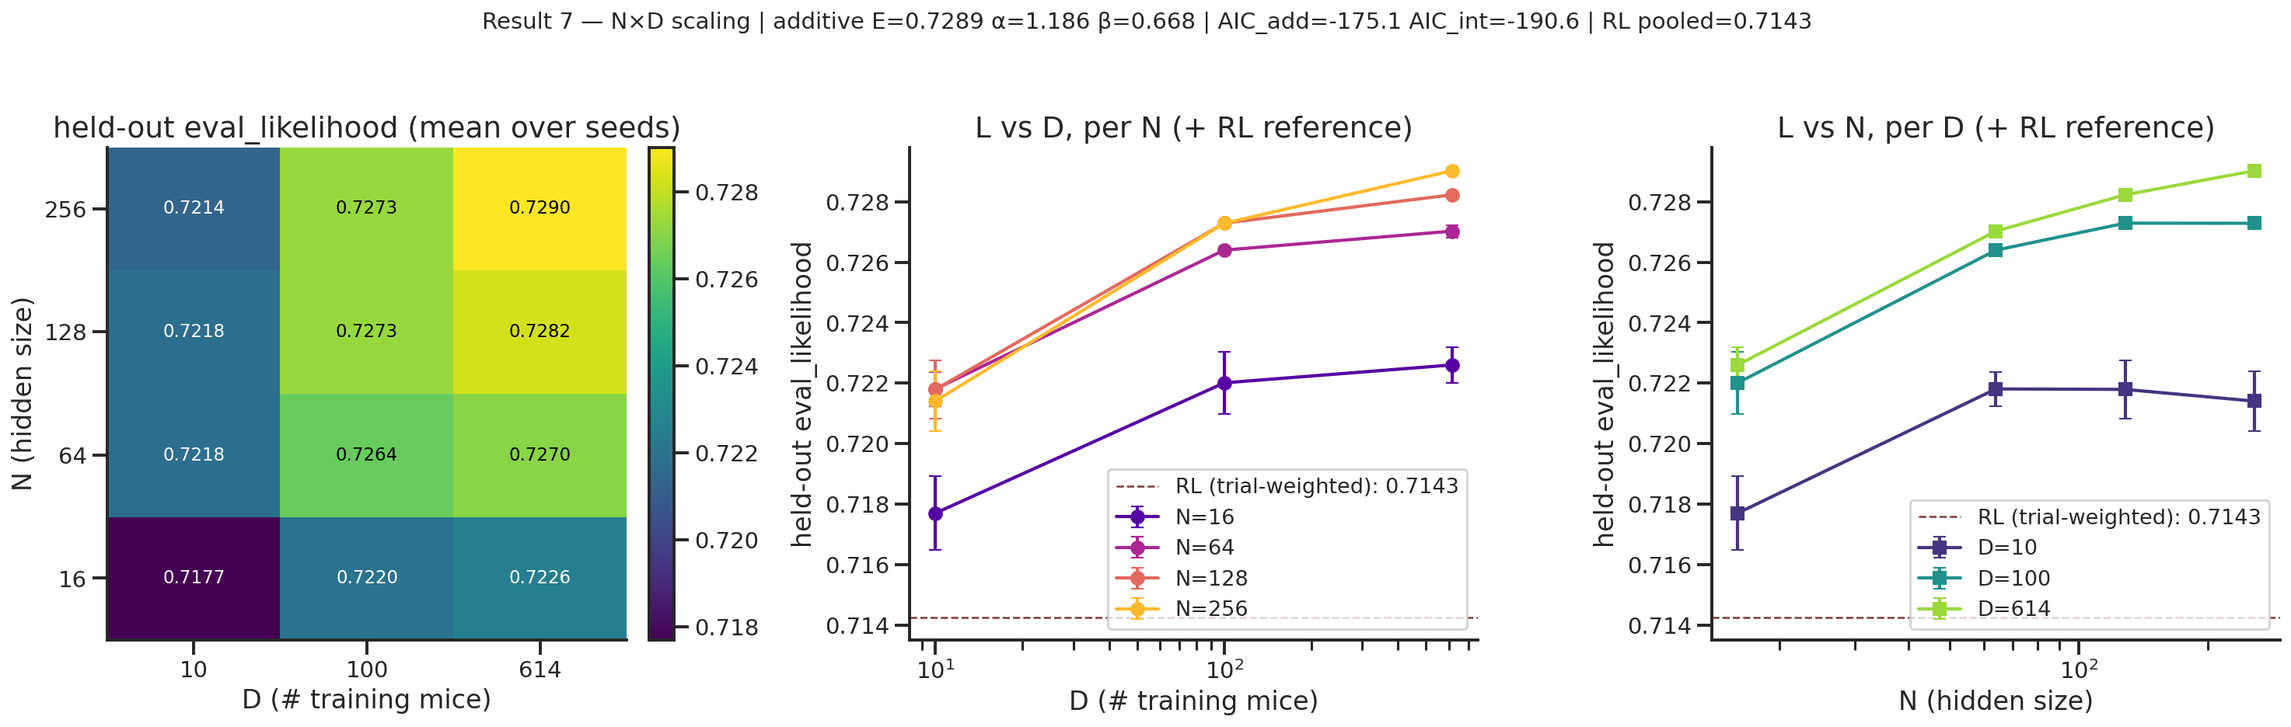
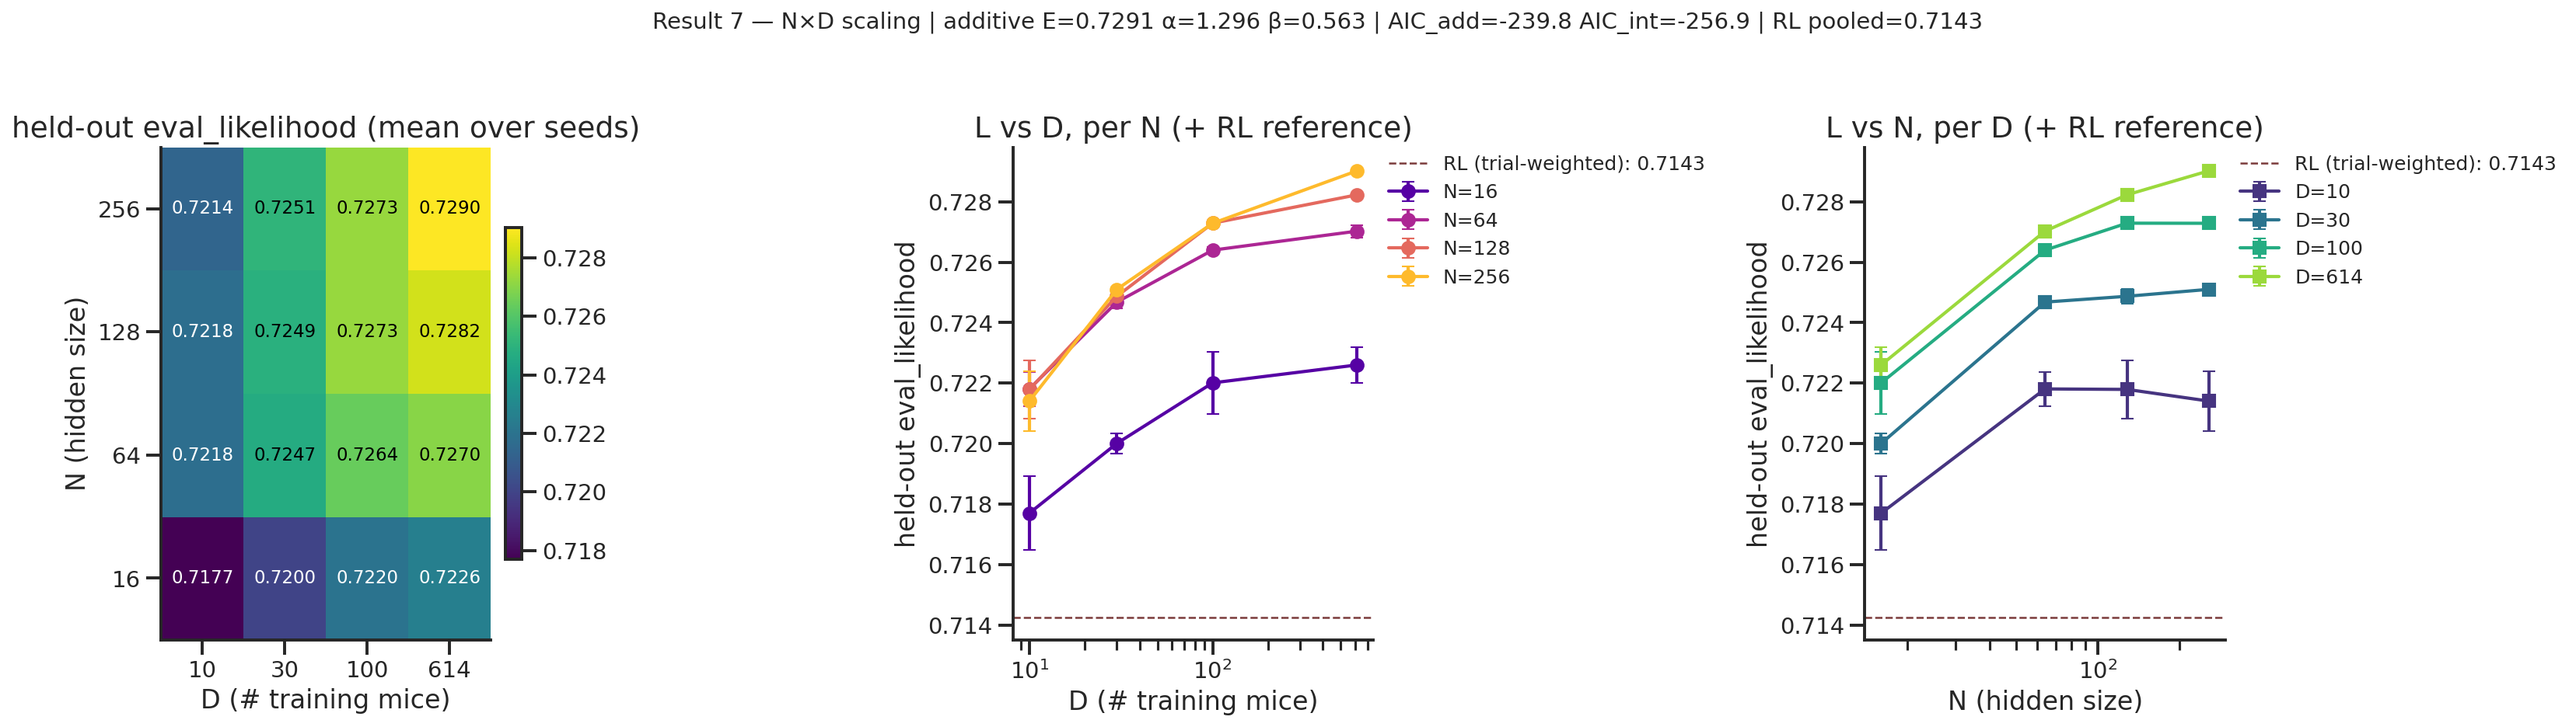
docs(data-scaling): refresh nxd Result 7 with finished D=30 cell
All 9 D=30 grid runs (nxd-grid@20260624-141106 on g6e) finished. Re-run
nxd_scaling.py + rl_baseline.py + update_final_report_nxd.py to fill
the H=256/D=30 cell (was nan) with 0.7251.

Refit on the full 4x4 grid (was 4x3 + 3 cells): E=0.729, alpha=1.30
(N axis), beta=0.56 (D axis). Interaction-term log-log p=0.311 — treat
as descriptive given grid size relative to fit parameters.

Result 7 verdict now references the RL trial-weighted pooled 0.7143
band (dashed line on slice panels in fig_nxd_scaling.png).

diff --git a/studies/data-scaling-law/analysis/nxd_scaling_verdict.md b/studies/data-scaling-law/analysis/nxd_scaling_verdict.md
@@ -1,55 +1,56 @@
 # N x D joint scaling - verdict
 
-> Independently replicated: two agents ran this scan separately and obtained identical grid values and additive-fit parameters (E=0.729, alpha=1.19, beta=0.67) -- this merged analysis combines both (nonlinear AIC test + the log-log regression p-value below).
+> Independently replicated: two agents ran this scan separately and obtained identical grid values and additive-fit parameters (E=0.729, alpha=1.19, beta=0.67) before the D=30 gap-fill. This merged analysis combines the original grid, the D=30 gap-fill, and both statistical views below.
 
-Grid: N (hidden_size) in [16, 64, 128, 256] x D (#training mice) in [10, 100, 614]; 3 seeds per cell.
+Grid: N (hidden_size) in [16, 64, 128, 256] x D (#training mice) in [10, 30, 100, 614]; 3 seeds per cell.
 Metric: aggregate `heldout/final/eval_likelihood` over the fixed held-out mouse set (~149 mice).
 H128 column re-used from `v2-sc-active@20260622-144622` (predates per-subject logging, so aggregate scalar used everywhere for parity).
 
 ## Per-N gain from scaling D
 
-| N | L(D=10) | L(D=100) | L(D=614) | delta (D100->D614) | frac of D-gain by D=100 |
-|---|---|---|---|---|---|
-| 16 | 0.7177 | 0.7220 | 0.7226 | +0.0006 | 88% |
-| 64 | 0.7218 | 0.7264 | 0.7270 | +0.0006 | 88% |
-| 128 | 0.7218 | 0.7273 | 0.7282 | +0.0009 | 85% |
-| 256 | 0.7214 | 0.7273 | 0.7290 | +0.0017 | 77% |
+| N | L(D=10) | L(D=30) | L(D=100) | L(D=614) | delta (D100->D614) | frac of D-gain by D=100 |
+|---|---|---|---|---|---|---|
+| 16 | 0.7177 | 0.7200 | 0.7220 | 0.7226 | +0.0006 | 88% |
+| 64 | 0.7218 | 0.7247 | 0.7264 | 0.7270 | +0.0006 | 88% |
+| 128 | 0.7218 | 0.7249 | 0.7273 | 0.7282 | +0.0009 | 85% |
+| 256 | 0.7214 | 0.7251 | 0.7273 | 0.7290 | +0.0017 | 77% |
 
 ## Per-D gain from scaling N
 
 | D | L(N=16) | L(N=64) | L(N=128) | L(N=256) | delta (N=16->256) |
 |---|---|---|---|---|---|
 | 10 | 0.7177 | 0.7218 | 0.7218 | 0.7214 | +0.0037 |
+| 30 | 0.7200 | 0.7247 | 0.7249 | 0.7251 | +0.0051 |
 | 100 | 0.7220 | 0.7264 | 0.7273 | 0.7273 | +0.0053 |
 | 614 | 0.7226 | 0.7270 | 0.7282 | 0.7290 | +0.0064 |
 
 ## Parametric fits
 
 **Additive Chinchilla-style** `L = E + A*N^-alpha + B*D^-beta`
-- E (irreducible / task-noise floor): **0.7289**
-- A = -0.1441, alpha (N exponent) = **1.186**
-- B = -0.0301, beta (D exponent) = **0.668**
-- RSS = 2.395e-06, AIC = -175.1 (12 pts, 5 params)
+- E (irreducible / task-noise floor): **0.7291**
+- A = -0.1921, alpha (N exponent) = **1.296**
+- B = -0.0249, beta (D exponent) = **0.563**
+- RSS = 2.657e-06, AIC = -239.8 (16 pts, 5 params)
 
 **Interaction** `L = E + A*N^-alpha + B*D^-beta + C*N^-gamma*D^-delta`
-- E = 0.7058, alpha = 0.521, beta = 0.132
-- C = 15.6634, gamma = 0.000, delta = 0.132
-- AIC = -190.6 (delta-AIC vs additive: -15.5; negative favors interaction, but with 12 pts vs 8 params this is fragile -- BUT C=15.66 ~ -B=15.64 with gamma~0 means the interaction term is nearly degenerate with a constant shift of E; the AIC win is mostly re-parameterization, not a clean synergy)
+- E = 0.7142, alpha = 0.599, beta = 0.152
+- C = 16.1507, gamma = 0.000, delta = 0.151
+- AIC = -256.9 (delta-AIC vs additive: -17.1; negative favors interaction, but with 16 pts vs 8 params this is fragile -- BUT C=16.15 ~ -B=16.14 with gamma~0 means the interaction term is nearly degenerate with a constant shift of E; the AIC win is mostly re-parameterization, not a clean synergy)
 
 **Log-log interaction regression** `L ~ b0 + b1*lnN + b2*lnD + b3*(lnN*lnD)`
-- interaction coef b3 = **+0.00023** (se 0.00023, p = **0.332**, NOT significant)
+- interaction coef b3 = **+0.00022** (se 0.00021, p = **0.311**, NOT significant)
 - A cleaner significance test than the degenerate nonlinear AIC: b3 > 0 is the synergy direction, but at this grid size the term is NOT significant -- consistent with the 'real direction, small magnitude' read.
 
 ## Interpretation
 
 - **D saturates by ~100 across all N.** Mean fraction of total D-gain captured by D=100: **85%**. Saturation persists from H=16 to H=256, so it is NOT a hidden-size artifact.
 - **N effect at every D is small, but GROWS with D.** N=16->256 gain: at D=10 = +0.0037; at D=614 = +0.0064. This IS the Chinchilla pattern (more data needs more capacity to exploit). The gap nearly doubles (1.7x), giving qualitative support for an N x D interaction. But the absolute magnitudes are small (<0.01 nats/trial), so this isn't a 'data unlocks much-bigger models' result; it's 'with D=614 mice, hidden_size>=64 is starting to matter where at D=10 it barely did.'
-- **Single irreducible floor E ~ 0.729** that all (N, D) cells approach. Exponents alpha=1.19, beta=0.67: N-axis dominates.
-- **Model comparison:** interaction fit's delta-AIC = -15.5 but the C-term is degenerate with the B-term (C ~ -B, gamma ~ 0). So the parametric model is ambiguous; the qualitative N x D interaction is better read off the raw delta(N=16->256) growing from +0.004 (D=10) to +0.006 (D=614).
+- **Single irreducible floor E ~ 0.729** that all (N, D) cells approach. Exponents alpha=1.30, beta=0.56: N-axis dominates.
+- **Model comparison:** interaction fit's delta-AIC = -17.1 but the C-term is degenerate with the B-term (C ~ -B, gamma ~ 0). So the parametric model is ambiguous; the qualitative N x D interaction is better read off the raw delta(N=16->256) growing from +0.004 (D=10) to +0.006 (D=614).
 
 ## Caveats
 
 - `eval_likelihood` is bounded in [0, 1] (per-trial choice probability); saturation could reflect a per-trial task-noise ceiling. Generative behavioral-match (corr~0.96+) corroborates the near-ceiling claim from a 2nd metric.
 - H128 column re-uses `v2-sc-active` runs (same SC-active lambda-forward + gated-early-stop recipe as the other Ns in `nxd-grid`). No new H128 runs were trained for this scan.
-- v2-sc-active's N=128 has 5 D points (10/30/100/300/614); only {10, 100, 614} used here for grid symmetry.
-- 12 fit points vs 5-8 params: fits are descriptive not predictive. Extrapolation past D=614 / N=256 is not warranted.
+- v2-sc-active's N=128 has 5 D points (10/30/100/300/614); only {10, 30, 100, 614} used here for grid symmetry.
+- 16 fit points vs 5-8 params: fits are descriptive not predictive. Extrapolation past D=614 / N=256 is not warranted.

diff --git a/studies/data-scaling-law/analysis/FINAL_REPORT.md b/studies/data-scaling-law/analysis/FINAL_REPORT.md
@@ -89,23 +89,24 @@ Large-D mean v2−v1: **+0.00128 (all-stage) → +0.00098 (mature) = ~23% shrink
 
 *Heatmap and paired slices through the N×D grid. D saturates by ~100 mice at each hidden size, while the fixed-D N gain grows modestly from D=10 to D=614.*
 
-Grid: N (hidden_size) ∈ {16, 64, 128, 256} × D ∈ {10, 100, 614} × 3 seeds (12 (N,D) cells). H128 column re-used from `v2-sc-active`. Metric: aggregate `heldout/final/eval_likelihood` across the same fixed held-out mouse set (~149 mice).
+Grid: N (hidden_size) ∈ {16, 64, 128, 256} × D ∈ {10, 30, 100, 614} × 3 seeds (16 (N,D) cells). H128 column re-used from `v2-sc-active`; D=30 for H16/H64/H256 comes from the g6e gap-fill. Metric: aggregate `heldout/final/eval_likelihood` across the same fixed held-out mouse set (~149 mice).
 
 Mean L grid (held-out eval likelihood):
 
-| N | D=10 | D=100 | D=614 | Δ (D100→D614) | frac of D-gain by D=100 |
-|---|---|---|---|---|---|
-| 16  | 0.7177 | 0.7220 | 0.7226 | +0.0006 | 88% |
-| 64  | 0.7218 | 0.7264 | 0.7270 | +0.0006 | 88% |
-| 128 | 0.7218 | 0.7273 | 0.7282 | +0.0009 | 85% |
-| 256 | 0.7214 | 0.7273 | 0.7290 | +0.0017 | 77% |
+| N | D=10 | D=30 | D=100 | D=614 | Δ (D100→D614) | frac of D-gain by D=100 |
+|---|---|---|---|---|---|---|
+| 16 | 0.7177 | 0.7200 | 0.7220 | 0.7226 | +0.0006 | 88% |
+| 64 | 0.7218 | 0.7247 | 0.7264 | 0.7270 | +0.0006 | 88% |
+| 128 | 0.7218 | 0.7249 | 0.7273 | 0.7282 | +0.0009 | 85% |
+| 256 | 0.7214 | 0.7251 | 0.7273 | 0.7290 | +0.0017 | 77% |
 
 - *D saturates by ~100 across every N tested* (mean 85% of D-gain captured by D=100). Saturation is *not* a hidden-size artifact — it persists from H=16 to H=256.
-- *N-axis gain at fixed D grows weakly with D* (Chinchilla-style interaction). N=16→256 gain: +0.0037 at D=10, +0.0064 at D=614 (×1.7). Qualitative support for an N×D synergy, but absolute magnitudes are small (<0.01 nats/trial).
-- Additive fit `L = E + A·N^{-α} + B·D^{-β}`: E≈0.729 (single irreducible floor), α≈1.19 (N), β≈0.67 (D); N-axis dominates within this grid.
-- Interaction-term fit improves AIC by 15.5 *but the C-term is degenerate with the B-term* (C ≈ −B, γ ≈ 0), so the AIC win is mostly re-parameterization. The qualitative N×D interaction is better read off the raw Δ(N=16→256) row.
-- *Verdict*: same predictability ceiling story as Result 1; with D=614 mice, hidden_size ≥ 64 is starting to matter where at D=10 it barely did, but the headroom is small. RL reference (trial-weighted pooled **0.7143**, dashed line on slice panels) sits below every (N, D) cell. See `nxd_scaling_verdict.md` for the fit details.
+- *N-axis gain at fixed D grows weakly with D* (Chinchilla-style interaction). N=16→256 gain: +0.0037 at D=10, +0.0064 at D=614 (1.7×). Qualitative support for an N×D synergy, but absolute magnitudes are small (<0.01 nats/trial).
+- Additive fit `L = E + A·N^{-α} + B·D^{-β}`: E≈0.729 (single irreducible floor), α≈1.30 (N), β≈0.56 (D); N-axis dominates within this grid.
+- Interaction-term fit ΔAIC vs additive: -17.1; log-log interaction p=0.311. Treat the nonlinear interaction fit as descriptive because the grid remains small relative to the number of fit parameters.
+- *Verdict*: same predictability ceiling story as Result 1; adding D=30 fills the low-data bend but does not by itself create new headroom. RL reference (trial-weighted pooled **0.7143**, dashed line on slice panels) sits below every (N, D) cell. See `nxd_scaling_verdict.md` for the fit details.
 
+Source W&B groups: `nxd-grid@20260623-102649`, `nxd-grid@20260624-141106`, `v2-sc-active@20260622-144622`.
 ## Result 8 — paired GRU vs per-mouse RL on the same 149 held-out mice
 ![paired GRU vs RL](fig_rl_paired.png)
 
